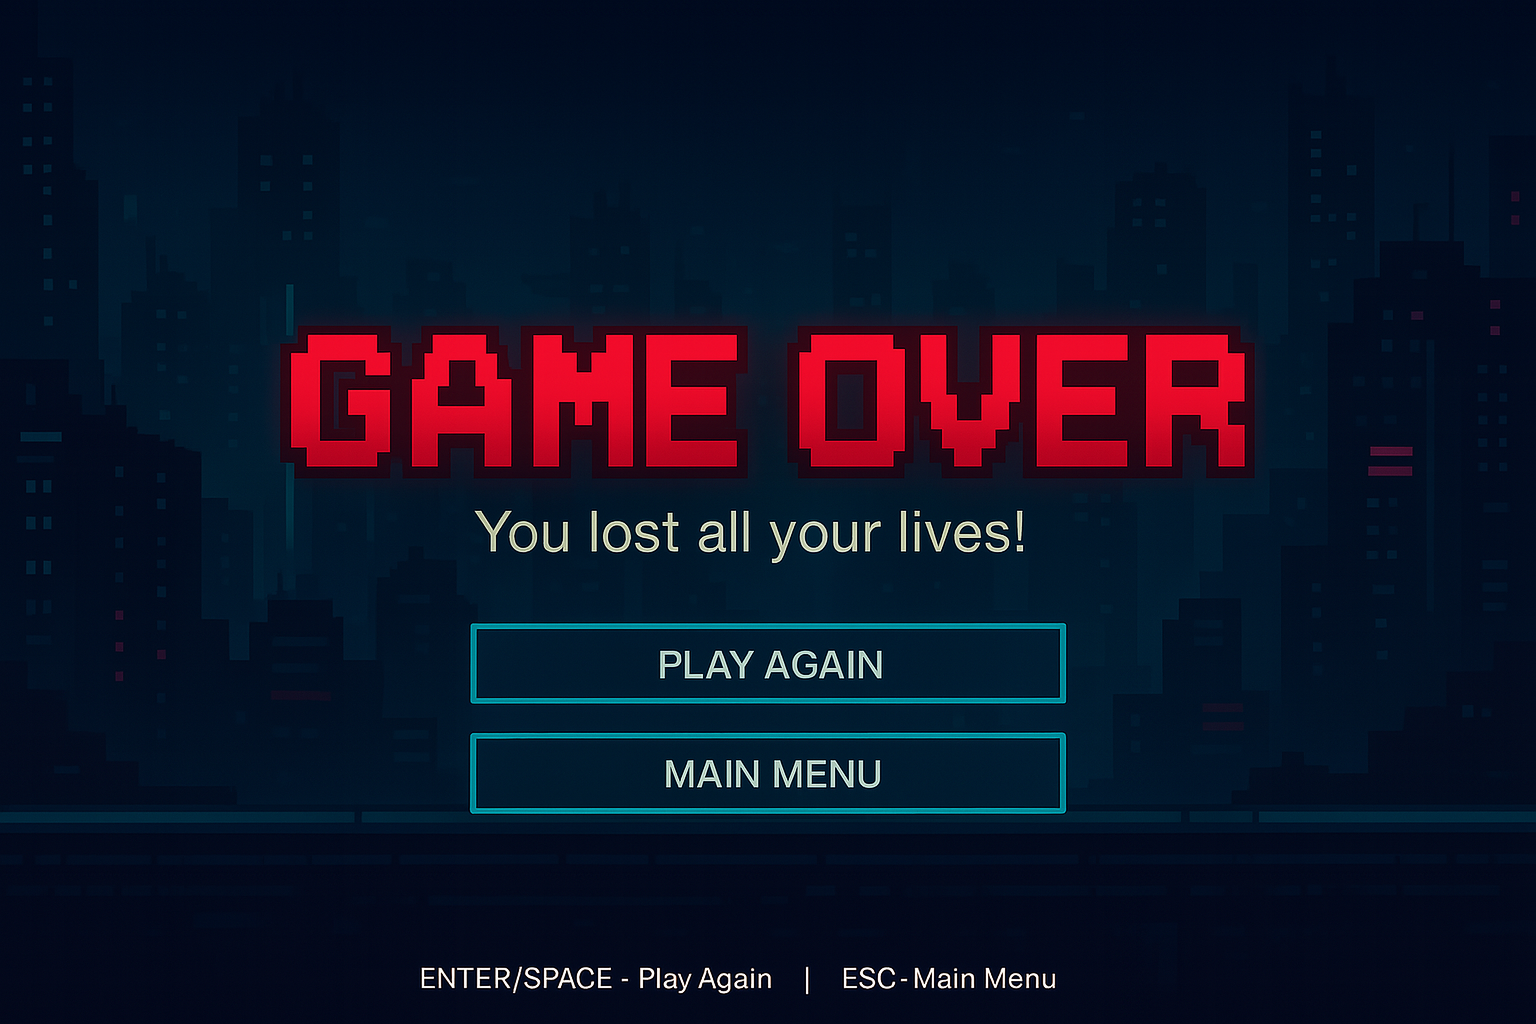
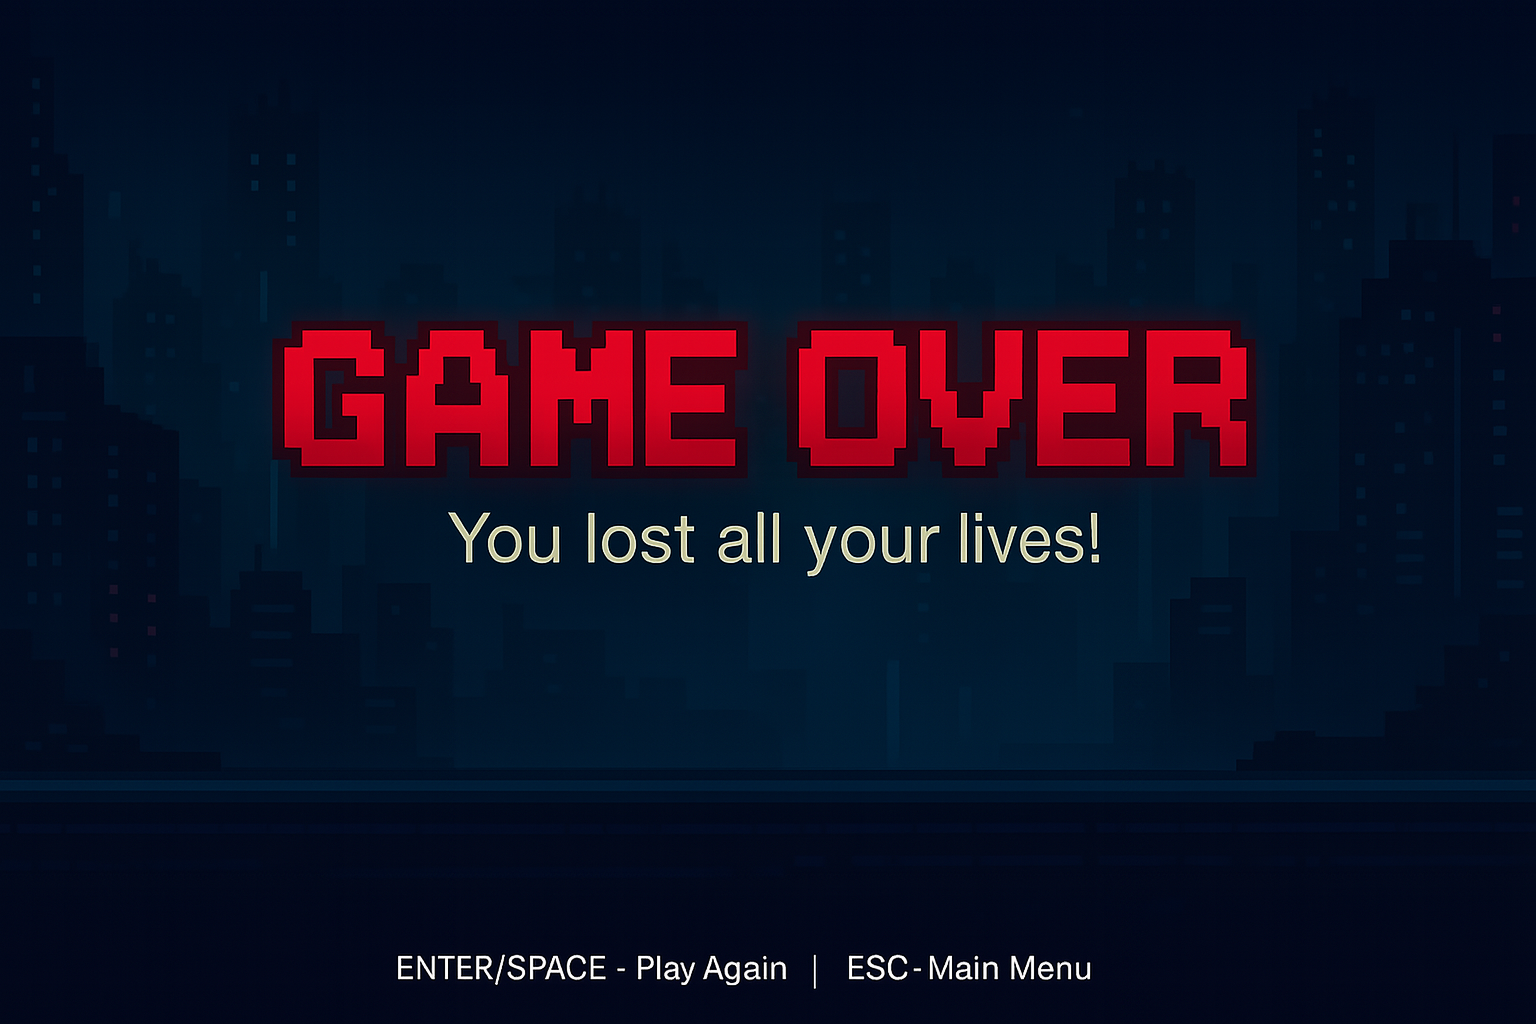
ajuste person

diff --git a/crypto-heroes/src/scenes/GameScene.js b/crypto-heroes/src/scenes/GameScene.js
@@ -1,5 +1,7 @@
 import AssetLoader from '../engine/AssetLoader.js';
 
+// Cena de Game Over ou Vitória
+// Exibe uma tela de Game Over ou Vitória com opções para reiniciar ou voltar ao menu
 export default class GameOverScene {
   constructor(sceneManager, onRestart = null, onBackToMenu = null, isVictory = false) {
     this.sceneManager = sceneManager;
@@ -19,7 +21,7 @@ export default class GameOverScene {
     // Botões
     this.buttons = [
       { 
-        text: 'JOGAR NOVAMENTE', 
+        text: 'PLAY AGAIN', 
         y: 0, 
         width: 300, 
         height: 50,
@@ -27,7 +29,7 @@ export default class GameOverScene {
         hovered: false
       },
       { 
-        text: 'MENU PRINCIPAL', 
+        text: 'MAIN MENU', 
         y: 0, 
         width: 300, 
         height: 50,
@@ -39,27 +41,34 @@ export default class GameOverScene {
     // Configurar posições dos botões
     this.setupButtons();  
   }
-  
-  playSoundForGameResult() {
+    playSoundForGameResult() {
     if (this.isVictory) {
       // Tocar som de vitória
       if (this.assets.sounds.victory) {
         AssetLoader.playSound(this.assets.sounds.victory, 0.7);
-        console.log('🎉 Tocando som de vitória!');
       }
     } else {
       // Tocar som de game over
       if (this.assets.sounds.over) {
         AssetLoader.playSound(this.assets.sounds.over, 0.7);
-        console.log('💀 Tocando som de game over!');
       }
     }
   }
-  
   // Método chamado quando a cena é ativada
   onEnter() {
     // Garantir que o som seja tocado mesmo se não foi no construtor
     this.playSoundForGameResult();
+    
+    // Garantir que o cursor inicie como default
+    const canvas = this.sceneManager.ctx.canvas;
+    canvas.style.cursor = 'default';
+  }
+  
+  // Método chamado quando a cena é desativada
+  onExit() {
+    // Resetar cursor para default quando sair da cena
+    const canvas = this.sceneManager.ctx.canvas;
+    canvas.style.cursor = 'default';
   }
   
   setupButtons() {
@@ -73,7 +82,6 @@ export default class GameOverScene {
       button.y = startY + (index * spacing);
     });
   }
-  
   update(dt, input) {
     // Animação de fade in
     if (this.fadeIn) {
@@ -83,18 +91,26 @@ export default class GameOverScene {
         this.fadeIn = false;
       }
     }   
-    
-    // Verificar hover nos botões
-    const mouseX = input.mouseX || 0;
-    const mouseY = input.mouseY || 0;
-    
+      // Obter coordenadas do mouse relativas ao canvas
+    const canvas = this.sceneManager.ctx.canvas;
+    const rect = canvas.getBoundingClientRect();
+    const mouseX = (input.mouseX || 0) - rect.left;
+    const mouseY = (input.mouseY || 0) - rect.top;
+      // Verificar hover nos botões
+    let anyButtonHovered = false;
     this.buttons.forEach(button => {
       const isHovered = mouseX >= button.x && 
                        mouseX <= button.x + button.width &&
                        mouseY >= button.y && 
                        mouseY <= button.y + button.height;
       button.hovered = isHovered;
+      if (isHovered) {
+        anyButtonHovered = true;
+      }
     });
+    
+    // Alterar cursor baseado no hover
+    canvas.style.cursor = anyButtonHovered ? 'pointer' : 'default';
       // Verificar cliques nos botões ou teclas
     if (input.wasPressed('Enter') || input.wasPressed('Jump')) {
       this.handleAction('restart');
@@ -113,8 +129,11 @@ export default class GameOverScene {
       });
     }
   }
-  
-  handleAction(action) {
+    handleAction(action) {
+    // Resetar cursor antes de executar a ação
+    const canvas = this.sceneManager.ctx.canvas;
+    canvas.style.cursor = 'default';
+    
     switch (action) {
       case 'restart':        
         if (this.onRestart) {
@@ -127,7 +146,7 @@ export default class GameOverScene {
         }
         break;
     }
-  }  render() {
+  }render() {
     const ctx = this.sceneManager.ctx;
     const canvas = ctx.canvas;
     
@@ -147,6 +166,38 @@ export default class GameOverScene {
       if (this.assets.images.gameOver) {
         ctx.drawImage(this.assets.images.gameOver, 0, 0, canvas.width, canvas.height);
       }
-    }   
+    }
+    
+    // Renderizar botões
+    this.renderButtons(ctx);
+    
+    // Efeito de fade in
+    if (this.fadeIn || this.fadeAlpha > 0) {
+      ctx.fillStyle = `rgba(0, 0, 0, ${this.fadeAlpha})`;
+      ctx.fillRect(0, 0, canvas.width, canvas.height);
+    }
+  }
+  renderButtons(ctx) {
+    this.buttons.forEach(button => {
+      // Fundo do botão
+      ctx.fillStyle = button.hovered ? 'rgba(0, 0, 0, 0.9)' : 'rgba(0, 0, 0, 0.7)';
+      ctx.fillRect(button.x, button.y, button.width, button.height);
+      
+      // Borda do botão
+      ctx.strokeStyle = button.hovered ? '#FFFFFF' : '#FFFFFF';
+      ctx.lineWidth = 3;
+      ctx.strokeRect(button.x, button.y, button.width, button.height);
+      
+      // Texto do botão
+      ctx.fillStyle = button.hovered ? '#FF0000' : '#FFFFFF';
+      ctx.font = 'bold 18px Arial';
+      ctx.textAlign = 'center';
+      ctx.textBaseline = 'middle';
+      
+      const centerX = button.x + button.width / 2;
+      const centerY = button.y + button.height / 2;
+      
+      ctx.fillText(button.text, centerX, centerY);
+    });
   }
 }

diff --git a/crypto-heroes/src/engine/InputManager.js b/crypto-heroes/src/engine/InputManager.js
@@ -5,8 +5,7 @@ export default class InputManager{
   constructor(){
     window.addEventListener('keydown', e => this.#set(e.key, true));
     window.addEventListener('keyup',   e => this.#set(e.key, false));
-    
-    // Adicionar suporte para mouse
+      // Adicionar suporte para mouse
     this.mouseX = 0;
     this.mouseY = 0;
     
@@ -37,7 +36,7 @@ export default class InputManager{
       'Escape':'Escape',     
       x:'Punch',  c:'Power',
       e:'Punch',  f:'Power',
-      q:'SpecialPower', Q:'SpecialPower',  // ✨ NOVO: Poder especial
+      q:'SpecialPower', Q:'SpecialPower',  
       'Click':'Click'        
     }[k];
   }#set(k,val){

diff --git a/crypto-heroes/src/scenes/MenuScene.js b/crypto-heroes/src/scenes/MenuScene.js
@@ -22,10 +22,13 @@ export default class MenuScene {  constructor(manager){
       'eth': 'ETHEREUM'
     };
   }
-
   // Método chamado quando a cena é ativada
   // Aqui você pode inicializar variáveis, carregar assets, etc.
-  onEnter(){}  update(dt,input){
+  onEnter(){
+    // Garantir que o cursor seja default no menu
+    const canvas = this.mgr.ctx.canvas;
+    canvas.style.cursor = 'default';
+  }update(dt,input){
     let navigationChanged = false;
     // Verifica cooldown de teclas
       if(input.isDown('Left')  && this.tick('Left'))  {

diff --git a/crypto-heroes/src/scenes/ControlScene.js b/crypto-heroes/src/scenes/ControlScene.js
@@ -22,9 +22,11 @@ export default class ControlScene {
     this.textScaleDirection = 1;
     this.textScaleSpeed = 0.8;
   }
-  
-  // Método chamado quando a cena é ativada
-  onEnter() {    
+    // Método chamado quando a cena é ativada
+  onEnter() {
+    // Garantir que o cursor seja default na tela de controles
+    const canvas = this.sceneManager.ctx.canvas;
+    canvas.style.cursor = 'default';
   }
     update(dt, input) {
     // Animação de fade in

diff --git a/crypto-heroes/src/scenes/LevelCity.js b/crypto-heroes/src/scenes/LevelCity.js
@@ -325,4 +325,11 @@ export default class LevelCity {
       if (isGameOver) {        
       }
     }  }  
+  
+  // Método chamado quando a cena é ativada
+  onEnter() {
+    // Garantir que o cursor seja default durante o jogo
+    const canvas = this.mgr.ctx.canvas;
+    canvas.style.cursor = 'default';
+  }
 }

diff --git a/crypto-heroes/src/entities/PowerObject.js b/crypto-heroes/src/entities/PowerObject.js
@@ -22,7 +22,7 @@ export default class PowerObject {
     this.lifeTime = 3500; 
     this.timer = 0;
     
-    // ✨ NOVO: Dano do poder (pode ser modificado)
+    // Dano do poder (pode ser modificado)
     this.damage = 50; // Dano padrão
   }
   
